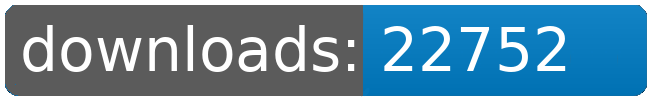
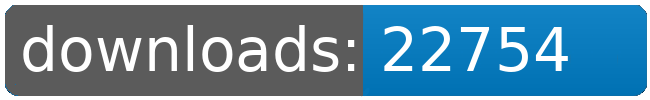
dl log written

Changed region(s): [[0.8, 0.24, 0.8923, 0.72]]

diff --git a/README.md b/README.md
@@ -32,8 +32,8 @@
 		<td>2596</td>
 		<td>2628</td>
 		<td>2658</td>
-		<td>2674</td>
-		<td>+ 16</td>
+		<td>2676</td>
+		<td>+ 18</td>
 	</tr>
 	<tr>
 		<td>Fundamental.Outfit.Expansion</td>
@@ -109,8 +109,8 @@
 		<td></td>
 		<td></td>
 		<td></td>
-		<td>22752</td>
-		<td>120</td>
+		<td>22754</td>
+		<td>122</td>
 	</tr>
 </table>
 </sub></sup>
@@ -190,8 +190,8 @@
 		<td>2596</td>
 		<td>2628</td>
 		<td>2658</td>
-		<td>2674</td>
-		<td>+ 16</td>
+		<td>2676</td>
+		<td>+ 18</td>
 	</tr>
 	<tr>
 		<td>Jaws</td>
@@ -223,8 +223,8 @@
 		<td></td>
 		<td></td>
 		<td></td>
-		<td>22752</td>
-		<td>120</td>
+		<td>22754</td>
+		<td>122</td>
 	</tr>
 </table>
 </sub></sup>
@@ -232,7 +232,6 @@
 <table>
 	<tr>
 		<td> </td>
-		<td>2025-12-26</td>
 		<td>2025-12-27</td>
 		<td>2025-12-28</td>
 		<td>2025-12-29</td>
@@ -241,10 +240,10 @@
 		<td>2026-01-01</td>
 		<td>2026-01-02</td>
 		<td>2026-01-03</td>
+		<td>2026-01-04</td>
 	</tr>
 	<tr>
 		<td>page views</td>
-		<td>4</td>
 		<td>9</td>
 		<td>7</td>
 		<td>3</td>
@@ -253,10 +252,10 @@
 		<td>9</td>
 		<td>24</td>
 		<td>11</td>
+		<td>15</td>
 	</tr>
 	<tr>
 		<td>unique visitors</td>
-		<td>3</td>
 		<td>7</td>
 		<td>5</td>
 		<td>3</td>
@@ -265,6 +264,7 @@
 		<td>4</td>
 		<td>10</td>
 		<td>6</td>
+		<td>7</td>
 	</tr>
 </table>
 <br>
@@ -278,8 +278,8 @@
 	</tr>
 	<tr>
 		<td>2025-10-13</td>
-		<td>1869</td>
-		<td>579</td>
+		<td>1884</td>
+		<td>586</td>
 		<td>105</td>
 		<td>20</td>
 	</tr>
@@ -292,8 +292,8 @@
 	</tr>
 	<tr>
 		<td>84</td>
-		<td>22.25</td>
-		<td>6.89</td>
+		<td>22.43</td>
+		<td>6.98</td>
 		<td></td>
 		<td></td>
 	</tr>
